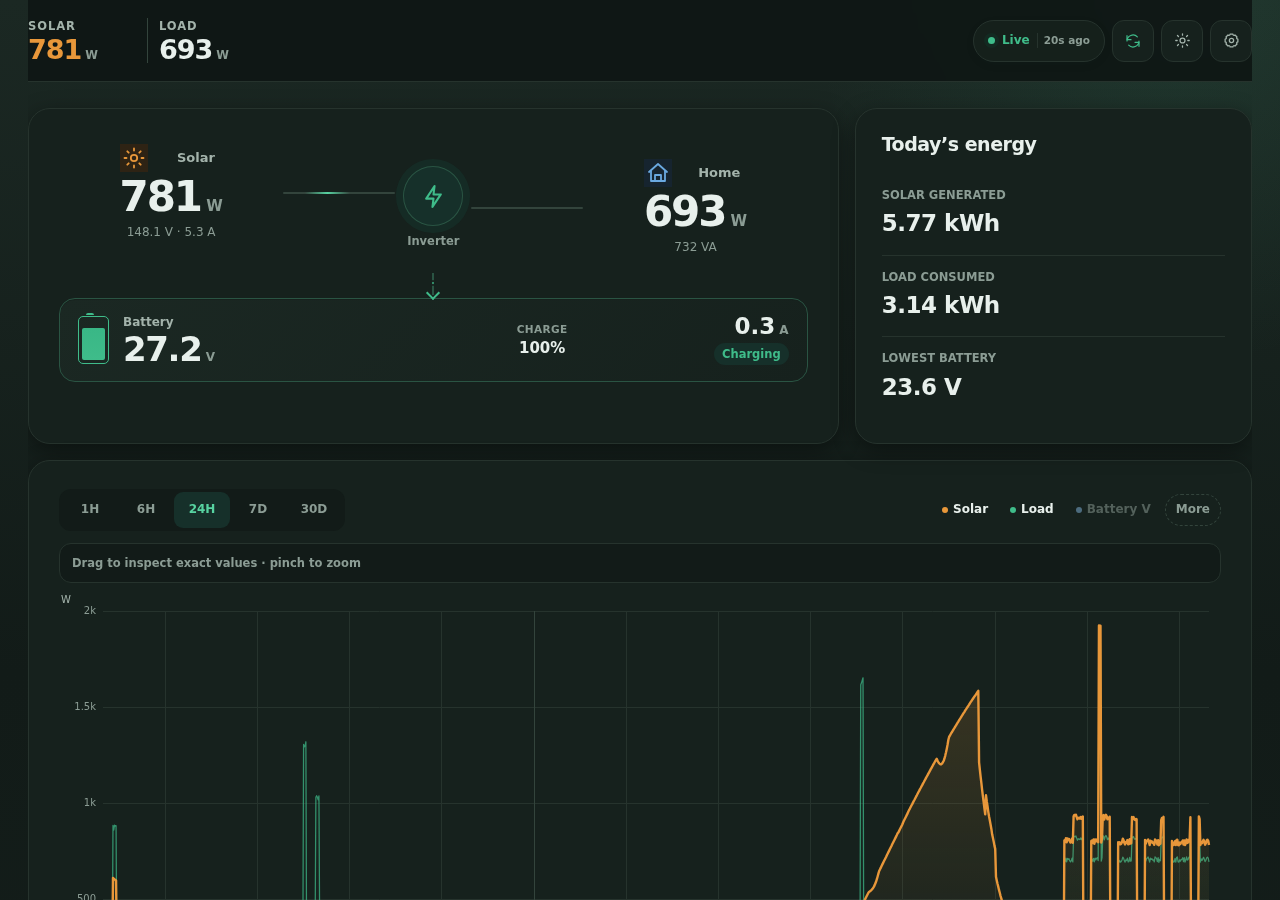
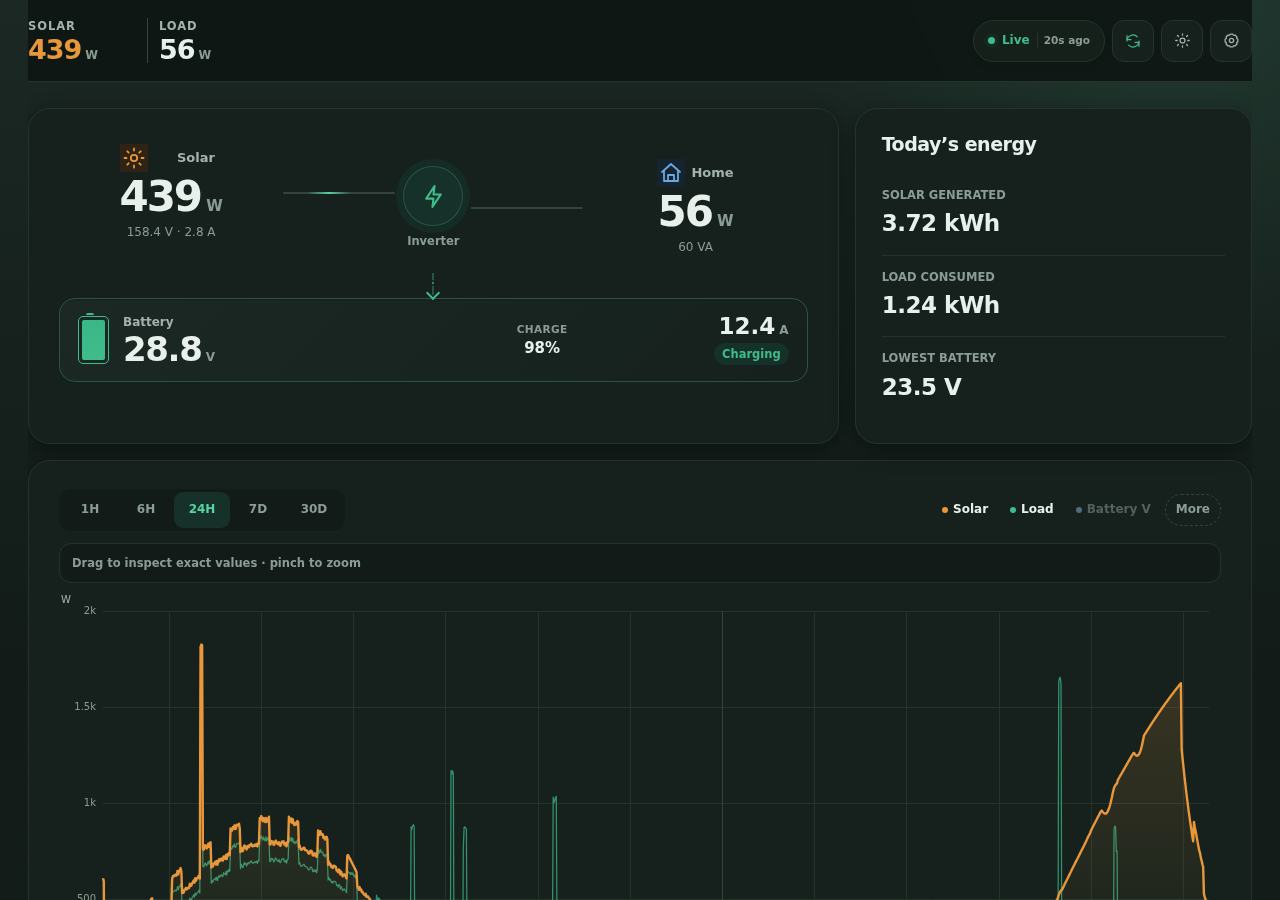
Model the demo's air conditioner as a variable-speed unit
The simulated air conditioner switched 650 W on and off every 35 minutes.
With the bank full the panels follow the load, so the README's headline
chart drew the afternoon as a comb, which reads as a glitch. Off-grid homes
mostly run variable-speed mini-splits that modulate with the heat, so it
now peaks mid-afternoon and never steps. The noon test asked for 500 W,
which only held while the old compressor happened to be running; with a
full bank the sun is shown by carrying the house. Both dashboard
screenshots are re-rendered from the new model.

diff --git a/solar_monitor/simulator.py b/solar_monitor/simulator.py
@@ -13,7 +13,8 @@ The model is small but physical rather than a recording:
   for the demo site, dimmed by weather seeded per calendar day -- every day
   differs, and the same day always looks the same.
 * The household draws a base load, a fridge that cycles, lights in the
-  evening and a few short heavy appliances.
+  evening, a few short heavy appliances, and on hot clear days a
+  variable-speed air conditioner through the afternoon.
 * The bank is 24 V lead-acid with an open-circuit voltage curve, charge
   polarisation, and a three-stage charger (bulk, absorption, float) that
   follows the configuration block. When the bank is full the charger stops
@@ -247,8 +248,12 @@ class SimulatedInverter:
         elif 6 * 60 + 30 <= minute < 8 * 60:          # the morning
             watts += 90.0
         day = self._day(local.date())
-        if day.cooling and 11 * 60 + 30 <= minute < 17 * 60 and (seconds / 60) % 35 < 25:
-            watts += 650.0                             # air conditioner, cycling
+        if day.cooling and 11 * 60 + 30 <= minute < 17 * 60:
+            # A variable-speed mini-split, the usual choice off grid: it
+            # modulates with the afternoon's heat rather than cycling a
+            # fixed compressor, so it peaks mid-afternoon and never steps.
+            heat = math.sin(math.pi * (minute - 11 * 60 - 30) / (5.5 * 60))
+            watts += 220.0 + 430.0 * heat
         for start, length, extra in day.events:
             if start <= minute < start + length and (extra < 1000 or self._soc > 35):
                 watts += extra

diff --git a/tests/test_simulator.py b/tests/test_simulator.py
@@ -40,7 +40,10 @@ class SimulatedInverterTests(unittest.TestCase):
 
     def test_the_sun_shines_at_noon_and_not_at_midnight(self):
         noon = self.decode(NOON)
-        self.assertGreater(noon["pv_watts"], 500)
+        # A full bank curtails the panels to the load, so the sun is shown by
+        # carrying the house, not by any fixed wattage.
+        self.assertGreater(noon["pv_watts"], 300)
+        self.assertGreater(noon["pv_watts"], noon["ac_load_watts"])
         midnight = self.decode(MIDNIGHT)
         self.assertEqual(midnight["pv_watts"], 0)
         self.assertLess(midnight["battery_current"], 0, "the bank carries the night")
